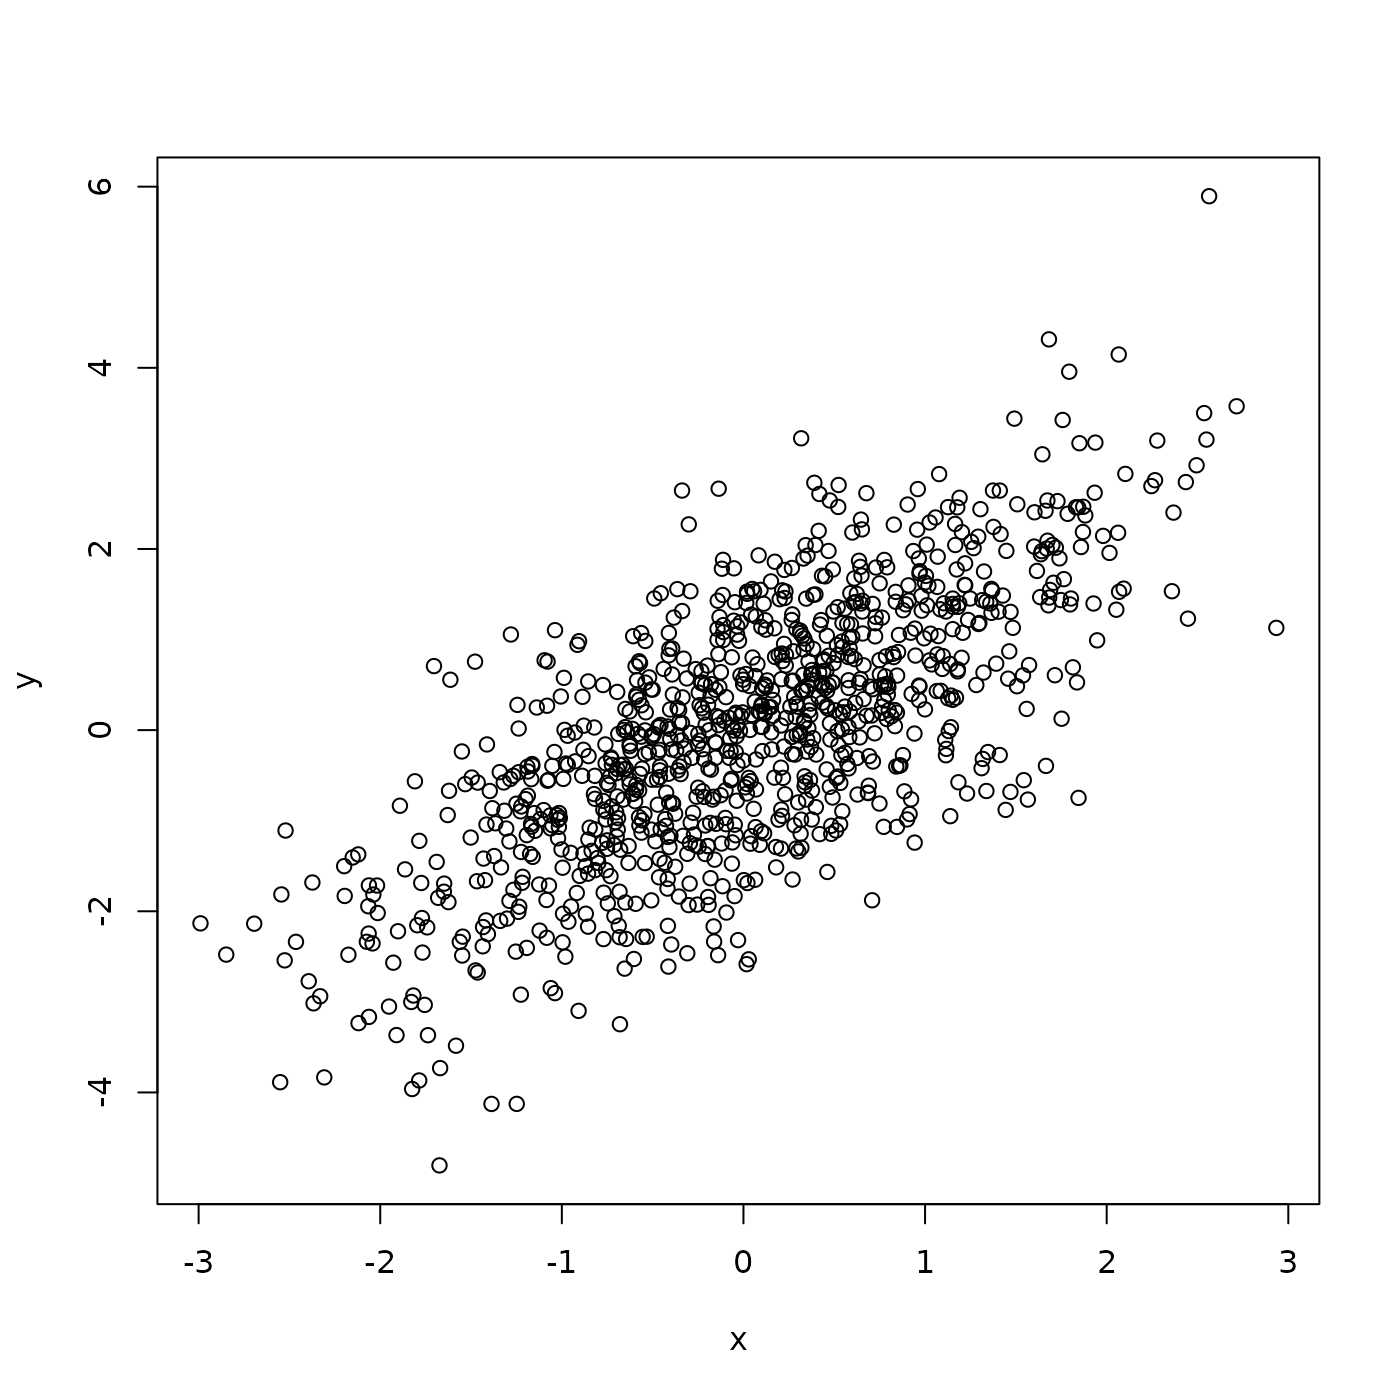
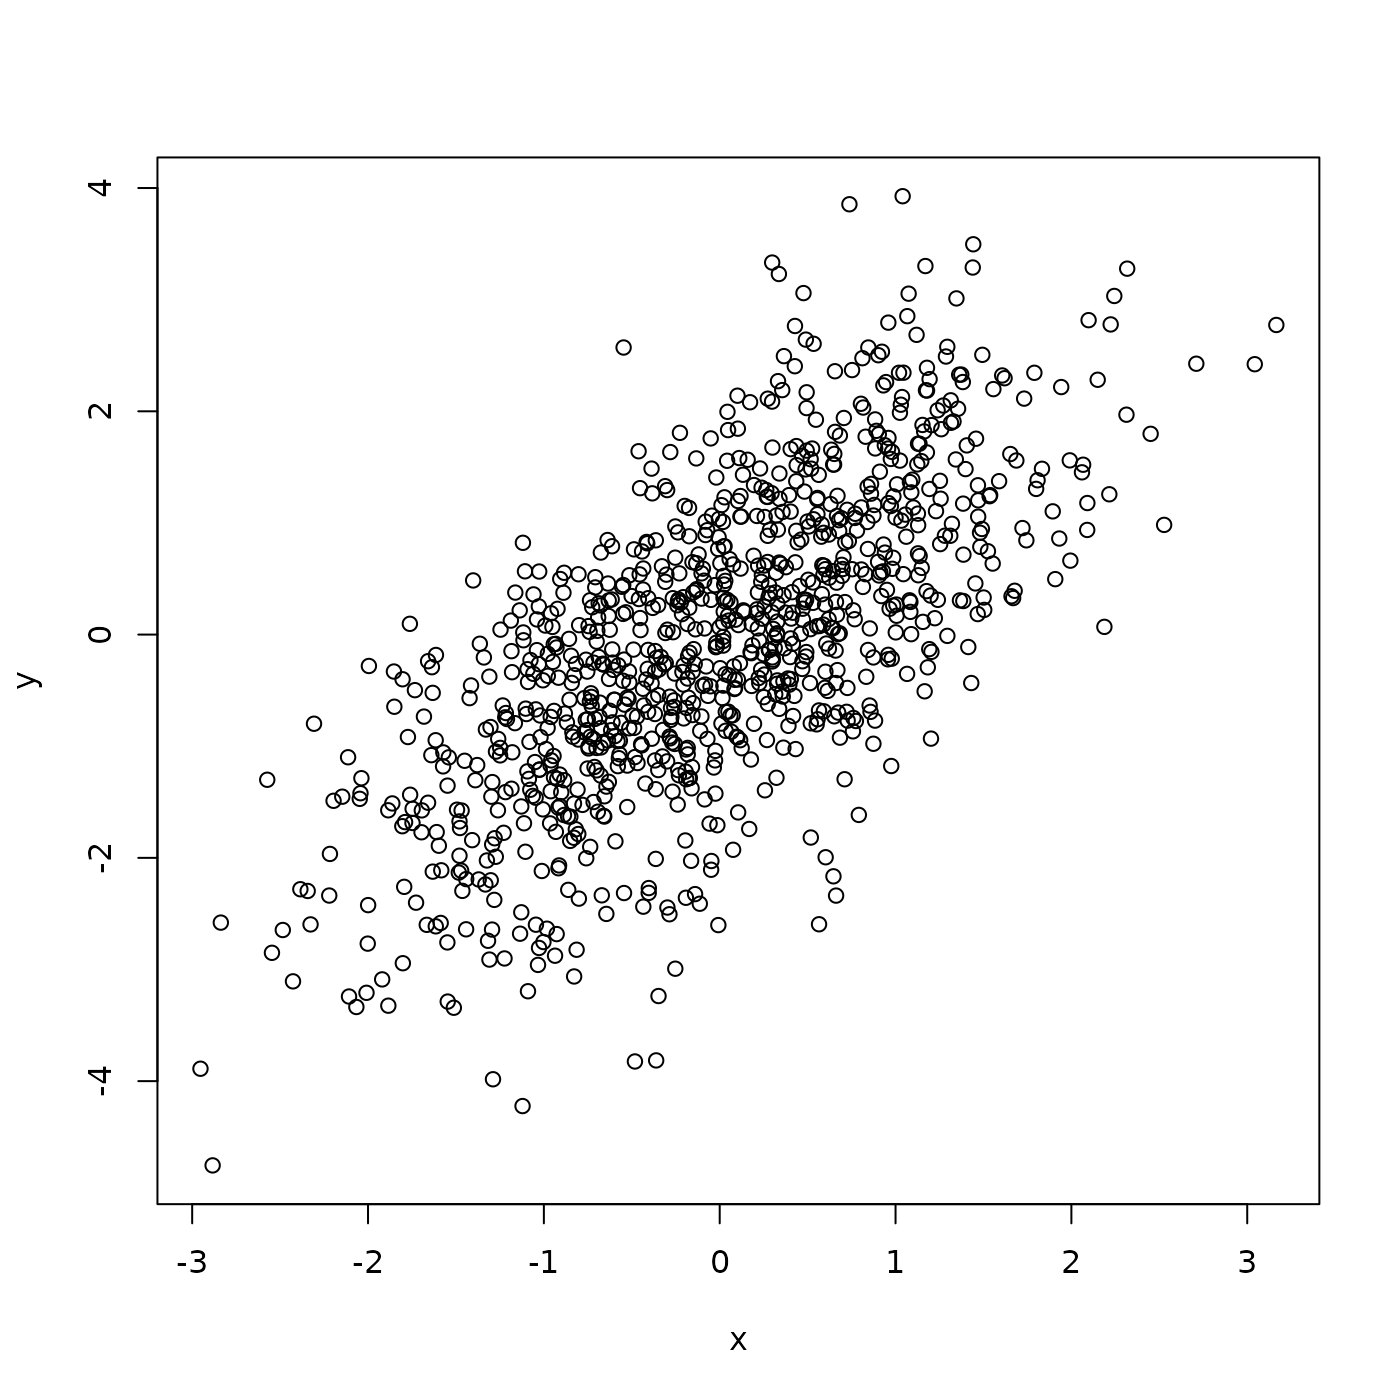
Deploying to gh-pages from @ mtmorgan/BERD@b1341f9de5c449b645438ac044dd6b38d3beb1bb 🚀

diff --git a/articles/a_introduction_to_r.html b/articles/a_introduction_to_r.html
@@ -292,23 +292,23 @@ interest</p>
 <div class="sourceCode" id="cb16"><pre class="downlit sourceCode r">
 <code class="sourceCode R"><span><span class="va">x</span> <span class="op">&lt;-</span> <span class="fu"><a href="https://rdrr.io/r/stats/Normal.html" class="external-link">rnorm</a></span><span class="op">(</span><span class="fl">100</span><span class="op">)</span></span>
 <span><span class="va">x</span></span>
-<span><span class="co">#&gt;   [1] -0.47915237  0.55622184  0.31284873 -1.33515982 -0.82292681  0.50120185</span></span>
-<span><span class="co">#&gt;   [7] -0.97764569 -1.11910340  1.38318737 -2.54250566  0.77350842 -0.45952752</span></span>
-<span><span class="co">#&gt;  [13]  1.54584261 -1.54108034  0.59000911 -0.07096567  0.81736125  0.45287595</span></span>
-<span><span class="co">#&gt;  [19]  0.53907465 -0.03278481  0.50364501 -0.67169518 -0.75648158 -0.35919293</span></span>
-<span><span class="co">#&gt;  [25] -1.37424909 -1.22286652  0.12198700  0.88650038 -1.15783336 -1.11065940</span></span>
-<span><span class="co">#&gt;  [31]  0.61159015  1.83698067  1.86179428  1.01895706  0.23807848  0.68511198</span></span>
-<span><span class="co">#&gt;  [37]  1.22301411 -1.04026210  4.00147068 -0.60328383  1.73473293  0.69831165</span></span>
-<span><span class="co">#&gt;  [43] -0.63824358  0.06678490 -0.65732260  0.63570973 -0.02937269  1.59372053</span></span>
-<span><span class="co">#&gt;  [49]  1.03506664  1.34429236 -2.27471302  0.28793989 -0.09063275  1.33646463</span></span>
-<span><span class="co">#&gt;  [55] -0.76580221  0.10747997  1.12054452  0.77966270  0.90806806 -1.02871984</span></span>
-<span><span class="co">#&gt;  [61]  0.76824924 -0.03826667  0.31233982  1.22146937  0.41241598 -1.26805683</span></span>
-<span><span class="co">#&gt;  [67] -1.11856864 -0.70268437  0.13435225  1.30118909  0.41192823 -0.69116268</span></span>
-<span><span class="co">#&gt;  [73] -0.03066924 -1.28341988 -0.86922233 -0.36583261  0.50325944  0.29651777</span></span>
-<span><span class="co">#&gt;  [79] -2.23664398 -0.68184619  0.55578156  1.69832680 -0.99105709 -1.33786107</span></span>
-<span><span class="co">#&gt;  [85]  1.28854107 -2.57425845  1.42462386  1.04733471 -2.00612732 -0.24160750</span></span>
-<span><span class="co">#&gt;  [91]  0.61312253 -0.86913391  0.15924730  0.79947012 -1.92857072  0.10212681</span></span>
-<span><span class="co">#&gt;  [97]  0.66399879 -1.03287233  0.79878021 -1.20187759</span></span></code></pre></div>
+<span><span class="co">#&gt;   [1]  1.24222665 -0.17786519 -0.08370363 -1.32203774  0.67797773 -0.70351738</span></span>
+<span><span class="co">#&gt;   [7]  0.32110286  1.63932990  1.18438382  0.73769694 -1.18861271 -0.89554854</span></span>
+<span><span class="co">#&gt;  [13] -0.34141596 -0.09559067  1.30176330  1.28728466 -0.84409388 -0.67312416</span></span>
+<span><span class="co">#&gt;  [19]  1.75489436  0.23733336 -0.94620379  0.06731612  0.85425597  1.09086489</span></span>
+<span><span class="co">#&gt;  [25]  2.05536766 -0.28442738 -1.50561777 -1.87461204 -0.07417087  0.11153391</span></span>
+<span><span class="co">#&gt;  [31]  0.32686835  1.08111505 -0.12900516 -0.34960330 -0.02609635  0.55320955</span></span>
+<span><span class="co">#&gt;  [37]  1.31216858  2.41263627  0.07821612 -0.16544281 -1.28024747  2.02791878</span></span>
+<span><span class="co">#&gt;  [43] -0.87991322 -1.20032002 -0.09984092  0.96968162 -1.34857243 -0.40506106</span></span>
+<span><span class="co">#&gt;  [49] -1.47905600  0.71851421  1.67414739 -1.71651225 -0.74120264  0.73123812</span></span>
+<span><span class="co">#&gt;  [55] -1.11715090  1.10863662 -0.01438954 -0.49792460  0.25661743 -1.93782994</span></span>
+<span><span class="co">#&gt;  [61] -0.35233755 -1.29556352  0.64067102 -1.12725496 -0.67697212  0.93433037</span></span>
+<span><span class="co">#&gt;  [67]  1.69571555 -1.14479889 -0.78961189 -0.50781727  0.51878649 -0.68633107</span></span>
+<span><span class="co">#&gt;  [73]  0.40299893 -1.15025061  0.77937321  0.36768229  0.09350540  1.14291652</span></span>
+<span><span class="co">#&gt;  [79]  1.29334896 -0.88937319  0.24693133 -1.05343645  0.66895601 -2.12753540</span></span>
+<span><span class="co">#&gt;  [85] -0.66694479  0.25945766 -0.22275404 -0.20673672  0.71397382  1.11594374</span></span>
+<span><span class="co">#&gt;  [91]  0.14398025  0.04688927 -1.63646993 -0.80899857 -0.42989939 -1.99868244</span></span>
+<span><span class="co">#&gt;  [97] -0.87124073 -0.20068497 -0.69849992  1.17008696</span></span></code></pre></div>
 <p>Look up the help page for <code>rnorm</code> –
 <code><a href="https://rdrr.io/r/stats/Normal.html" class="external-link">?rnorm</a></code></p>
 <p>Plot a histogram using <code><a href="https://rdrr.io/r/graphics/hist.html" class="external-link">hist()</a></code></p>

diff --git a/index.html b/index.html
@@ -75,9 +75,9 @@
 <p>This site provides course material for an ‘Introduction to <em>R</em>’ workshop offered to University at Buffalo BERD scholars, April, 2024.</p>
 <p>There are three one-hour sessions</p>
 <ul>
-<li><a href="https://mtmorgan.github.io/BERD/docs/articles/a_introduction_to_r.html">Introduction to R</a></li>
-<li><a href="https://mtmorgan.github.io/BERD/docs/articles/b_data_io.html">Data Input and Manipulation</a></li>
-<li><a href="https://mtmorgan.github.io/BERD/docs/articles/c_visualization.html">Visualization and Statistical Analysis</a></li>
+<li><a href="https://mtmorgan.github.io/BERD/articles/a_introduction_to_r.html">Introduction to R</a></li>
+<li><a href="https://mtmorgan.github.io/BERD/articles/b_data_io.html">Data Input and Manipulation</a></li>
+<li><a href="https://mtmorgan.github.io/BERD/articles/c_visualization.html">Visualization and Statistical Analysis</a></li>
 </ul>
 </div>
   </main><aside class="col-md-3"><div class="links">
